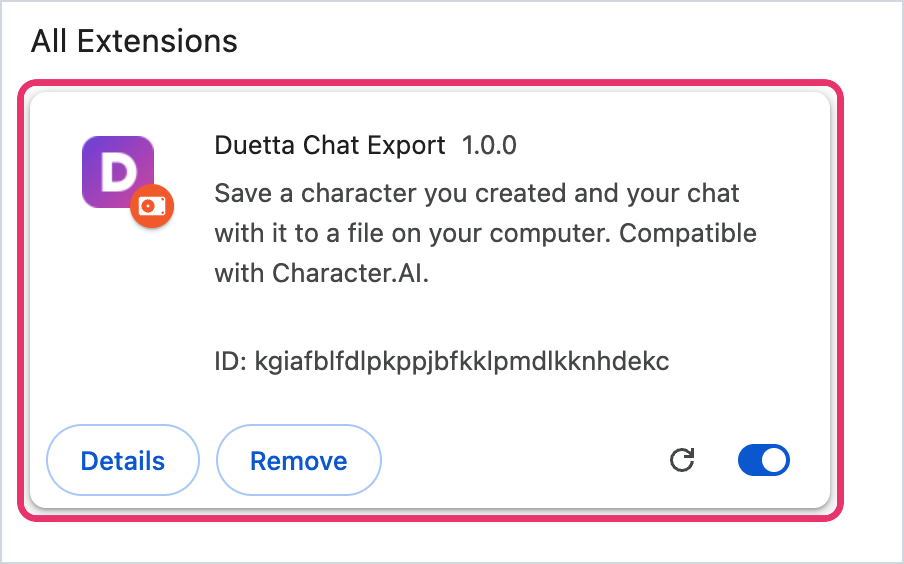
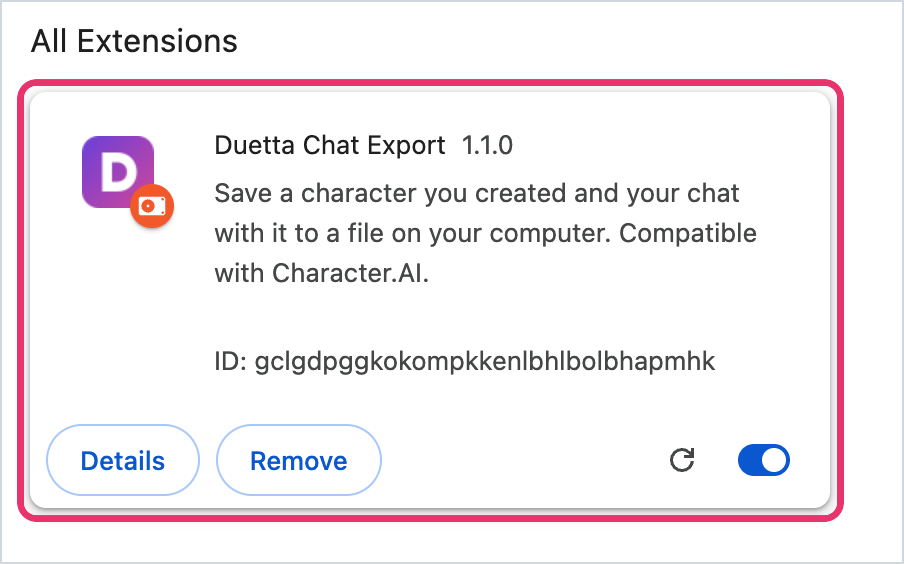
Ask once before reading any page (1.1.0)
The first time the icon is clicked, the popup says what the extension
reads (the card on the Edit page; the messages and the usernames for the
ownership check on the chat page; a picture only if the user picks one)
and that nothing leaves the computer, with a link to the privacy policy.
It looks at no tab until the user presses "Agree and continue"; the
agreement is one flag in chrome.storage.local. Raise CONSENT in popup.js
to ask again when what is read changes. Everything else works as before.

- Test: before agreeing, the reader is not in the page and nothing is
  stored; after it, only the flag is kept, and the notice is not shown again
- Version 1.1.0 (manifest, producer in every file, package files, golden)
- README: the notice in "How to export", storage row, npm version for
  releases; PRIVACY.md and store/ (listing, checklist, 5th screenshot)
  describe the notice; the chrome://extensions picture shows 1.1.0

Changed region(s): [[0.2788, 0.6028, 0.8053, 0.6631], [0.5265, 0.2411, 0.5885, 0.2713]]

diff --git a/extension/popup.html b/extension/popup.html
@@ -22,6 +22,19 @@
         <p class="muted">Checking this page…</p>
       </section>
 
+      <section data-view="consent" hidden>
+        <h2>What this extension reads</h2>
+        <p>Only after you click it, and only in that tab:</p>
+        <ul class="reads">
+          <li>on your character's Edit page, the character card;</li>
+          <li>on your chat page, the messages, and the usernames on the page to check that the character is yours (usernames are not saved);</li>
+          <li>a picture, only if you choose one.</li>
+        </ul>
+        <p>It uses them only to make the file you ask for, saved on this computer. Nothing is sent to Duetta or anyone else.</p>
+        <button class="primary" data-a="consent">Agree and continue</button>
+        <p class="note">You see this once. To say no, close this window: nothing is read. <a href="https://github.com/Duetta-ai/character-ai-chat-export/blob/main/PRIVACY.md" target="_blank">Privacy policy</a></p>
+      </section>
+
       <section data-view="unsupported" hidden>
         <h2>Open your chat</h2>
         <p>Open a chat with a character <strong>you created</strong> on character.ai, then click this extension again.</p>

diff --git a/extension/popup.js b/extension/popup.js
@@ -61,7 +61,22 @@ async function call(fn, arg = null) {
   return result;
 }
 
+// The notice in [data-view="consent"] is shown once, before the extension looks at any tab.
+// Raise CONSENT when what the extension reads changes, so that the user is asked again.
+const CONSENT = 1;
+
+function consentView() {
+  show("consent");
+  on("consent", async (e) => {
+    e.target.disabled = true;
+    await chrome.storage.local.set({ consent: CONSENT }); // the only thing kept after the browser closes
+    show("loading");
+    run();
+  });
+}
+
 async function main() {
+  if ((await chrome.storage.local.get("consent")).consent !== CONSENT) return consentView();
   const saved = await session.get(null);
   if (params.has("tab")) {
     // Opened in a tab from the review, so the file picker can't close it.
@@ -304,4 +319,5 @@ on("start-over", async () => {
   await session.clear();
   location.reload();
 });
-main().catch((e) => showError(e.message === "PAGE_CHANGED" ? "UNSUPPORTED_PAGE" : "INTERNAL", { message: e.message }));
+const run = () => main().catch((e) => showError(e.message === "PAGE_CHANGED" ? "UNSUPPORTED_PAGE" : "INTERNAL", { message: e.message }));
+run();

diff --git a/extension/popup.css b/extension/popup.css
@@ -52,6 +52,8 @@ a { color: var(--accent); }
 .bar i { display: block; height: 100%; width: 35%; border-radius: 3px; background: var(--accent); animation: slide 1.2s ease-in-out infinite; }
 @keyframes slide { from { transform: translateX(-100%); } to { transform: translateX(290%); } }
 @media (prefers-reduced-motion: reduce) { .bar i { animation: none; width: 100%; opacity: 0.4; } }
+.reads { margin: 0 0 10px; padding-left: 18px; }
+.reads li { margin: 0 0 4px; }
 .callout { background: var(--warn-bg); color: var(--fg); border-radius: 8px; padding: 8px 10px; margin: 10px 0; font-size: 13px; }
 .card-state { color: var(--ok); margin: 8px 0; }
 .status { display: inline-block; font-size: 12px; font-weight: 600; padding: 2px 8px; border-radius: 999px; margin: 4px 0 8px; }

diff --git a/extension/export.js b/extension/export.js
@@ -8,7 +8,7 @@ export const LIMITS = {
   imageBytes: 2 * 1024 * 1024,
   imagePixels: 16_000_000,
 };
-const PRODUCER = { name: "duetta-cai-export", version: "1.0.0" };
+const PRODUCER = { name: "duetta-cai-export", version: "1.1.0" };
 
 export const utf8Bytes = (s) => new TextEncoder().encode(s).length;
 export const serialize = (file) => JSON.stringify(file, null, 2) + "\n";

diff --git a/store/CHECKLIST.md b/store/CHECKLIST.md
@@ -6,10 +6,10 @@
 
 | Что | Где |
 |---|---|
-| Архив для загрузки | `dist/duetta-chat-export.zip` (собрать: `./scripts/package.sh`) или тот же файл из релиза v1.0.0 на GitHub |
+| Архив для загрузки | `dist/duetta-chat-export.zip` версии 1.1.0, с экраном согласия (собрать: `./scripts/package.sh`), или тот же файл из релиза v1.1.0 на GitHub. Версию 1.0.0 в стор не подавать: в ней нет экрана согласия |
 | Тексты карточки и ответы на вкладку Privacy | [`listing.md`](listing.md): блоки копировать как есть |
 | Иконка 128×128 | [`../extension/icons/128.png`](../extension/icons/128.png) |
-| Скриншоты 1280×800, 4 шт. | [`screenshots/`](screenshots/), по порядку номеров |
+| Скриншоты 1280×800, 5 шт. | [`screenshots/`](screenshots/), по порядку номеров |
 | Плитка 440×280 | [`promo-tile-440x280.png`](promo-tile-440x280.png) |
 | Политика приватности | [`../PRIVACY.md`](../PRIVACY.md), ссылка для формы: `https://github.com/Duetta-ai/character-ai-chat-export/blob/main/PRIVACY.md` |
 
@@ -32,7 +32,7 @@
 
 ## 2. Загрузить архив
 
-1. **Собери архив** командой `./scripts/package.sh`. Версия 1.0.0, `manifest.json` лежит в корне zip, как требует стор.
+1. **Собери архив** командой `./scripts/package.sh`. Версия 1.1.0, `manifest.json` лежит в корне zip, как требует стор.
 2. **В кабинете нажми «New item»** и загрузи `dist/duetta-chat-export.zip`.
 3. **Название и короткое описание берутся из `manifest.json`.** В кабинете их не исправить.
    - Чтобы их поменять, нужен новый zip с большей версией.
@@ -46,7 +46,7 @@
 | Category | **Tools** (группа Productivity) |
 | Language | English |
 | Store icon | `extension/icons/128.png` |
-| Screenshots | 4 файла из `store/screenshots/` по порядку |
+| Screenshots | 5 файлов из `store/screenshots/` по порядку |
 | Small promo tile | `store/promo-tile-440x280.png`. Необязательна, но расширения без неё показываются после тех, у кого она есть |
 | Marquee, YouTube video | пропустить |
 | Official URL | пропустить: нужен сайт, подтверждённый в Search Console |
@@ -97,26 +97,27 @@
 
 | Код | О чём | Что делать |
 |---|---|---|
-| Purple Nickel | раскрытие данных и согласие пользователя | см. риск №1 ниже |
+| Purple Nickel | раскрытие данных и согласие пользователя | ответить, что с версии 1.1.0 при первом клике попап показывает, что читается, и ничего не читает до «Agree and continue» (скриншот 5); подробности ниже |
 | Purple Lithium | политика приватности и ответы о данных | проверить, что галочки совпадают с `PRIVACY.md` |
 | Purple Potassium | лишние права | объяснить по текстам из `listing.md`: прав и так минимум, host permissions нет |
 | Yellow Zinc | описание и метаданные | например, если сочтут, что упоминание Character.AI вводит в заблуждение: дисклеймер уже есть; при необходимости убрать бренд из короткого описания (это manifest, значит новая версия) |
 
-**Риск №1: согласие внутри расширения.** Правило Disclosure Requirements требует показать пользователю, какие данные читаются, и получить его явное согласие. Документы Google противоречат друг другу:
+**Согласие внутри расширения (закрыто в 1.1.0).** Правило Disclosure Requirements требует показать пользователю, какие данные читаются, и получить его явное согласие. Документы Google расходятся в том, где это делать:
 
 | Документ | Что говорит |
 |---|---|
 | Troubleshooting | раскрытия в карточке стора достаточно |
 | User Data FAQ, вопрос 10 | раскрытие должно быть в интерфейсе самого расширения, с явным действием пользователя |
 
-Что есть сейчас. Каждое чтение начинается только после клика по значку, а кнопки «Add character card» и «Save whole chat» — явные действия. Но на странице чата попап сразу после клика читает ник и число сообщений, ещё до нажатия кнопки. Отдельного экрана «вот что читается — продолжить» нет.
-
-Если ревьюер потребует такой экран, нужно добавить в попап разовое уведомление с кнопкой «Continue» перед первым чтением. Это изменение попапа, поэтому я его не делал: решаешь ты (или мастер).
+Сделано и то и другое:
+- в описании карточки есть абзац «WHAT IT READS AND WHERE IT GOES»;
+- при первом клике попап показывает экран «What this extension reads»: что читается и куда идёт, ссылка на политику и кнопка «Agree and continue». До нажатия кнопки расширение не трогает ни одну вкладку, это проверяет тест;
+- согласие запоминается одним флагом в `chrome.storage.local`, поэтому экран показывается один раз.
 
 ## 9. После публикации
 
 - **Ссылка в README.** Добавить в начало README ссылку на стор как основной способ установки, а zip из релизов оставить запасным. Скажи, я сделаю.
-- **Обновление.** Поднять версию (`manifest.json`, `extension/export.js`, `package.json`, раздел Release в README) → `./scripts/package.sh` → в кабинете Package → Upload new package → Submit for review.
+- **Обновление.** Поднять версию (как в разделе Release в README) → `./scripts/package.sh` → в кабинете Package → Upload new package → Submit for review. Если меняется то, что расширение читает, нужно поправить экран согласия и поднять `CONSENT` в `extension/popup.js`: тогда пользователей спросят заново, как требует Disclosure Requirements.
 - **Кто ставил из zip.** Такие пользователи сами в стор не переедут: им нужно удалить распакованную версию и поставить из стора.
 
 ## Сверка с правилами
@@ -130,8 +131,8 @@
 | Политика приватности | User Data FAQ, вопросы 6 и 14 | `PRIVACY.md` | низкий |
 | Заявление о Limited Use | Program Policies, Limited Use | есть в `PRIVACY.md` | низкий |
 | Только необходимые данные (с июля 2026) | Limited Use, блог 2026 | читается только то, что нужно для файла; ник сверяется и не сохраняется | низкий |
-| Безопасное хранение (шифрование при передаче и хранении) | User Data FAQ, вопрос 9 | ничего не передаётся; `storage.session` живёт в памяти; файл — это экспорт, о котором просит сам пользователь, в README и попапе сказано, что JSON не зашифрован | низкий-средний |
-| Раскрытие и согласие | Disclosure Requirements; FAQ, вопрос 10; Troubleshooting | см. риск №1 | **средний** |
+| Безопасное хранение (шифрование при передаче и хранении) | User Data FAQ, вопрос 9 | ничего не передаётся; `storage.session` живёт в памяти, в `storage.local` только флаг согласия; файл — это экспорт, о котором просит сам пользователь, в README и попапе сказано, что JSON не зашифрован | низкий-средний |
+| Раскрытие и согласие | Disclosure Requirements; FAQ, вопрос 10; Troubleshooting | абзац в карточке и разовый экран согласия в попапе до любого чтения (с 1.1.0) | низкий |
 | Чужой бренд и выдача себя за другого | Program Policies, Impersonation | бренда нет в названии и иконке, формулировка «Compatible with», дисклеймер «not affiliated» | низкий-средний |
 | Спам ключевыми словами | Spam FAQ | Character.AI упомянут несколько раз, по делу | низкий |
 | Обман в описании и скриншотах | Program Policies | скриншоты — настоящее расширение на тестовых страницах с выдуманным персонажем | низкий |

diff --git a/store/listing.md b/store/listing.md
@@ -22,7 +22,7 @@ Save a character you created and your chat with it to a file on your computer. C
 Duetta Chat Export saves a character you created on Character.AI, and your chat with it, to a file on your computer.
 
 WHAT IT READS AND WHERE IT GOES
-Only after you click the extension icon, and only in that tab, it reads the character card on your character's Edit page, the chat messages on your chat page, and the usernames shown on the page (to check that the character is yours; they are not saved). It uses them only to make the file you ask for: the file is saved to your computer, and nothing is sent to Duetta or anyone else. Privacy policy: https://github.com/Duetta-ai/character-ai-chat-export/blob/main/PRIVACY.md
+Only after you click the extension icon, and only in that tab, it reads the character card on your character's Edit page, the chat messages on your chat page, and the usernames shown on the page (to check that the character is yours; they are not saved). It uses them only to make the file you ask for: the file is saved to your computer, and nothing is sent to Duetta or anyone else. The first time you click it, the extension shows this and reads nothing until you press "Agree and continue". Privacy policy: https://github.com/Duetta-ai/character-ai-chat-export/blob/main/PRIVACY.md
 
 HOW IT WORKS
 1. Open your character's Edit page, click the extension icon and press "Add character card". It saves what the form shows: name, tagline, description, greetings and definition.
@@ -33,6 +33,7 @@ The file is plain JSON in your Downloads folder: every message in order, who wro
 
 PRIVATE BY DESIGN
 • Runs only when you click it, and only in that tab.
+• Asks first: the first time, it shows what it reads and waits for your OK.
 • Sends nothing anywhere: no servers, no analytics, no tracking. It makes no network requests at all.
 • Keeps the chat in memory only until the file is saved.
 • Works only with characters you created: the page must show that you are the creator.
@@ -57,7 +58,7 @@ Duetta Chat Export is not affiliated with or endorsed by Character.AI. Character
 | Field | File |
 |---|---|
 | Store icon, 128×128 | [`extension/icons/128.png`](../extension/icons/128.png) |
-| Screenshots, 1280×800, in this order | [`screenshots/1-save-whole-chat.png`](screenshots/1-save-whole-chat.png), [`screenshots/2-check-before-saving.png`](screenshots/2-check-before-saving.png), [`screenshots/3-character-card.png`](screenshots/3-character-card.png), [`screenshots/4-stays-on-your-computer.png`](screenshots/4-stays-on-your-computer.png) |
+| Screenshots, 1280×800, in this order | [`screenshots/1-save-whole-chat.png`](screenshots/1-save-whole-chat.png), [`screenshots/2-check-before-saving.png`](screenshots/2-check-before-saving.png), [`screenshots/3-character-card.png`](screenshots/3-character-card.png), [`screenshots/4-stays-on-your-computer.png`](screenshots/4-stays-on-your-computer.png), [`screenshots/5-asks-before-reading.png`](screenshots/5-asks-before-reading.png) |
 | Small promo tile, 440×280 | [`promo-tile-440x280.png`](promo-tile-440x280.png) |
 | Marquee 1400×560, video | not needed |
 
@@ -93,7 +94,7 @@ Used together with activeTab to run the extension's own page reader (reader.js, 
 `storage`
 
 ```
-chrome.storage.session keeps the character card and the chat in memory while the user goes between the character's Edit page and the chat and opens the popup again. It is cleared when the file is saved, when the user presses Start over and when the browser closes. Nothing is written to disk or synced.
+chrome.storage.session keeps the character card and the chat in memory while the user goes between the character's Edit page and the chat and opens the popup again. It is cleared when the file is saved, when the user presses Start over and when the browser closes. chrome.storage.local keeps one flag: that the user agreed to the first-use notice. No user data is written to disk or synced.
 ```
 
 **Are you using remote code?** No, I am not using remote code.
@@ -125,7 +126,7 @@ The extension works only with a character the signed-in account created, so the 
 ```
 The extension works only on Character.AI and only with a character created by the signed-in account.
 1. Sign in to https://character.ai (a free account is enough) and create any character with a name and a greeting.
-2. Open the character's Edit page, click the extension icon and press "Add character card".
+2. Open the character's Edit page and click the extension icon. The first time, it shows what it reads: press "Agree and continue". Then press "Add character card".
 3. Open the chat with this character, send one or two messages, click the extension icon and press "Save whole chat".
 4. In the preview tick "This is a character I created, and this is my chat" and press "Save file". A JSON file is downloaded.
 The extension makes no network requests; DevTools > Network on the popup shows none.

diff --git a/README.md b/README.md
@@ -33,6 +33,10 @@ You need Google Chrome on a computer. No account, no terminal.
 
 Sign in to character.ai as usual. The extension works only with characters you created.
 
+The first time you click the **D** icon, the extension shows what it reads and reads nothing until you press **Agree and continue**. You see this once.
+
+<img src="docs/img/export-consent.png" width="362" alt="First-use notice: what the extension reads, Agree and continue">
+
 1. **Add the character card.** Open your character's **Edit** page, click the **D** icon and press **Add character card**. The extension saves what the form shows: name, tagline, description, greetings and definition.
 
    <img src="docs/img/export-card.png" width="362" alt="Popup on the Edit page: Character card, Add character card">
@@ -66,7 +70,7 @@ The file uses Duetta's own format (v1), described by a JSON Schema in [`contract
 3. The extension then reads the messages on the page once and shows a preview: the character, the number of messages, the first and the last message, whether the chat starts with the character's greeting, and whether the chat is complete.
 4. You confirm that the character and the chat are yours, and whether the first and last messages are the real start and end. Optionally add your own picture from a file on your computer. **Save file** downloads the JSON.
 
-Only you start it, by clicking. It works on your own characters only: the chat header must say "By @you" with the handle of the account you are signed in with, and the page must have the character's Edit link.
+Only you start it, by clicking. The first time, the popup says what the extension reads and waits for **Agree and continue** before it looks at any tab. It works on your own characters only: the chat header must say "By @you" with the handle of the account you are signed in with, and the page must have the character's Edit link.
 
 ### What is saved
 
@@ -90,7 +94,7 @@ Only you start it, by clicking. It works on your own characters only: the chat h
 |---|---|
 | `activeTab` | Read the open tab only after you click the extension icon. |
 | `scripting` | Run the page reader in that tab. |
-| `storage` | Keep the card and the chat in memory between popup openings (`chrome.storage.session`). It is cleared when you save, when you press Start over and when the browser closes. |
+| `storage` | Keep the card and the chat in memory between popup openings (`chrome.storage.session`). It is cleared when you save, when you press Start over and when the browser closes. `chrome.storage.local` keeps one flag: that you agreed to the first-use notice. |
 
 There are no host permissions, no content scripts that run by themselves, no background worker, no analytics and no remote code. The extension makes **no network requests**: the popup's Content Security Policy has `connect-src 'none'`, and the reader only reads the page and scrolls it. Older messages are loaded by the site's own page, as when you scroll by hand. The file is downloaded from a local Blob, so the `downloads` permission is not needed.
 
@@ -107,7 +111,7 @@ There is no build step: the `extension` folder is exactly what Chrome runs. Afte
 
 ### Release
 
-1. Raise the version in `extension/manifest.json`, `extension/export.js` (`PRODUCER`, written into every file) and `package.json`; `npm test` checks that the manifest and the file agree. Then run `UPDATE_GOLDEN=1 npm test` and review the diff.
+1. Raise the version: `npm version X.Y.Z --no-git-tag-version` (package.json and package-lock.json), then the same number in `extension/manifest.json` and `extension/export.js` (`PRODUCER`, written into every file); `npm test` checks that the manifest and the file agree. Then run `UPDATE_GOLDEN=1 npm test` and review the diff.
 2. `scripts/package.sh` packs `extension/` into `dist/duetta-chat-export.zip` with `manifest.json` at the root of the zip.
 3. `gh release create vX.Y.Z dist/duetta-chat-export.zip`. Keep the file name: the download link above always points to the latest release's `duetta-chat-export.zip`.
 4. The same zip goes to the Chrome Web Store; the listing texts, pictures and the submission checklist are in [`store/`](store/).

diff --git a/PRIVACY.md b/PRIVACY.md
@@ -14,11 +14,14 @@ Only after you click its icon, and only in the tab where you clicked it:
 - On your chat page: the messages shown and who wrote each one (you or the character), the character's id and, if the address has it, the chat id. To check that the character is yours, it also compares the creator's username in the chat header with the username of the account you are signed in with. The usernames are not saved.
 - A picture, only if you choose an image file yourself.
 
+The first time you click the icon, the extension shows this list and reads nothing until you press **Agree and continue**.
+
 ## What it does with it
 
 - Shows you a preview in the extension's window.
 - Keeps the character card and the chat in the browser's session storage (in memory) until you save the file, press **Start over** or close the browser.
-- When you press **Save file**, hands the file to the browser, which saves it to your Downloads folder. After that the extension keeps nothing.
+- When you press **Save file**, hands the file to the browser, which saves it to your Downloads folder. After that the extension keeps nothing of the chat or the card.
+- Remembers that you agreed to the first-use notice: one flag in the browser's local storage, with no other data.
 
 ## What it does not do
 
@@ -35,7 +38,7 @@ The saved file is plain, unencrypted JSON, and it is yours. Keep it like any pri
 
 ## Changes
 
-If a future version changes how the extension handles data, this policy will be updated before that version is published, and the date above will change.
+If a future version changes how the extension handles data, this policy will be updated before that version is published, the date above will change, and the extension will ask for your agreement again.
 
 ## Contact
 
